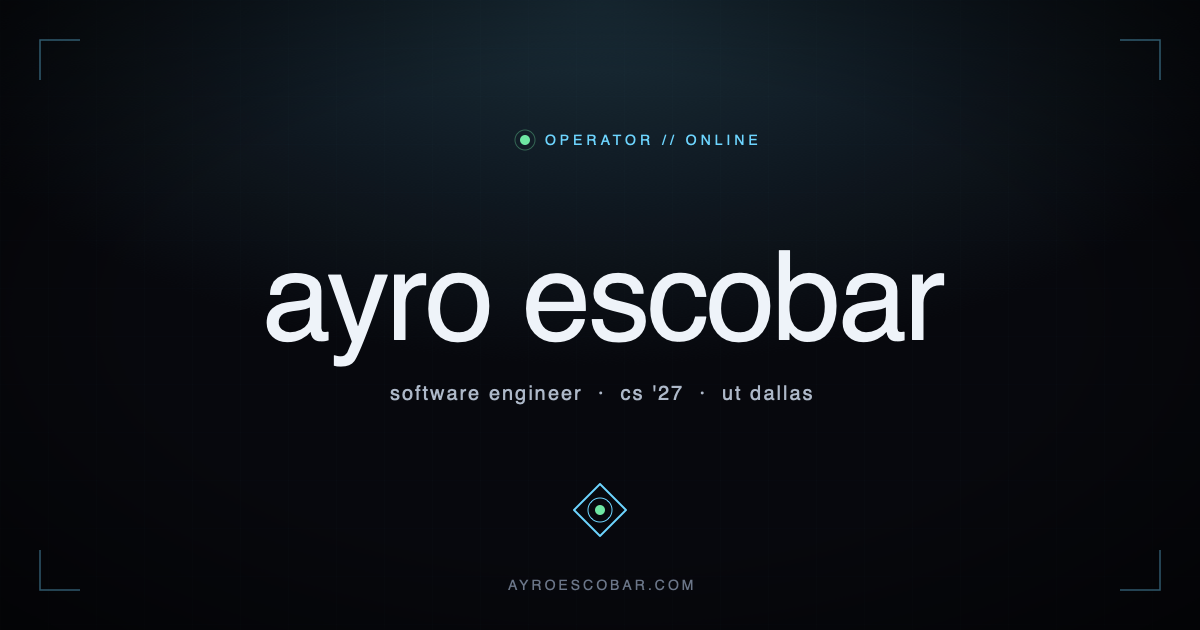
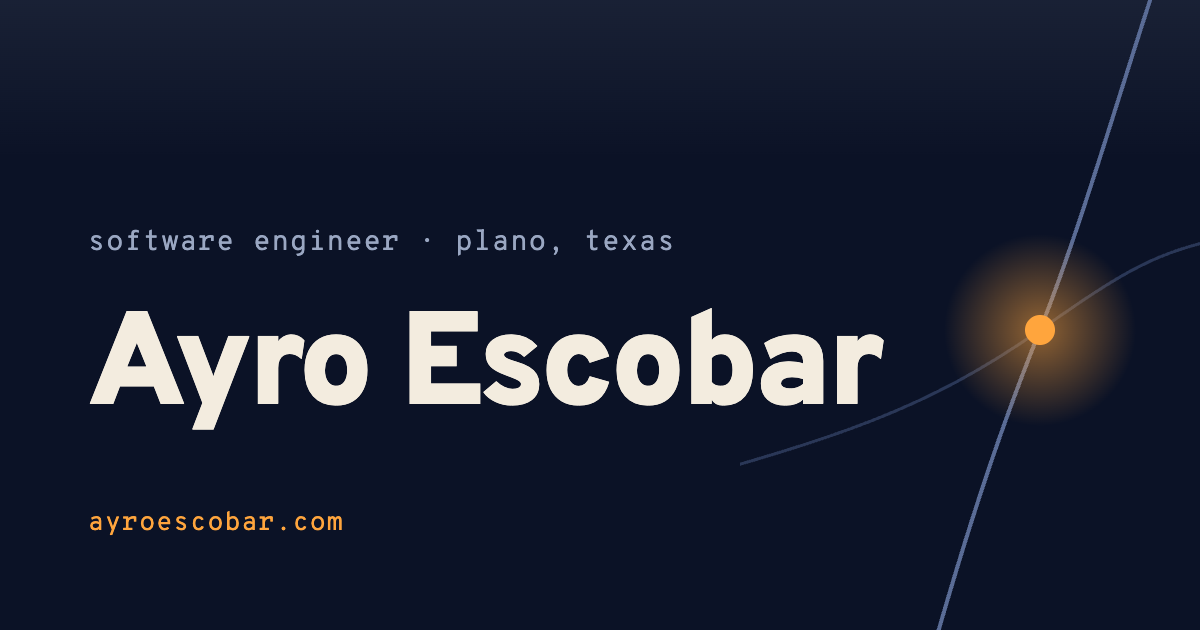
og: provisional night card from tokens, captured headless

diff --git a/frontend/og/og.html b/frontend/og/og.html
@@ -1,0 +1,49 @@
+<!doctype html>
+<!--
+  OG image template (PLAN.md 9). Owned by B. scripts/og.mjs screenshots this
+  page at 1200 by 630 and writes public/og.png. Lives outside public/ so it is
+  never deployed as a page. Uses the real tokens and fonts.
+  PROVISIONAL by FOUNDATION: typographic card with one lit node. B replaces
+  the motif with the lit grid from src/data/dfw-grid.json, then asks
+  FOUNDATION to switch the og:image:alt in src/content/meta.js.
+-->
+<html lang="en">
+  <head>
+    <meta charset="UTF-8" />
+    <title>og</title>
+    <link rel="icon" href="data:," />
+    <link rel="stylesheet" href="/src/styles/tokens.css" />
+    <link rel="stylesheet" href="/src/styles/fonts.css" />
+    <style>
+      html, body { margin: 0; width: 1200px; height: 630px; overflow: hidden; background: var(--night); }
+      body { position: relative; font-family: 'Overpass Variable', 'Overpass Fallback', sans-serif; color: var(--ink); }
+      .horizon { position: absolute; inset: 0 0 auto 0; height: 160px; background: linear-gradient(to bottom, color-mix(in oklab, var(--led) 7%, transparent), transparent); }
+      .copy { position: absolute; left: 88px; top: 0; bottom: 0; display: flex; flex-direction: column; justify-content: center; gap: 22px; }
+      .mono { font-family: 'Overpass Mono Variable', 'Overpass Mono Fallback', monospace; letter-spacing: 0.04em; }
+      .eyebrow { font-size: 28px; color: var(--dim); }
+      h1 { margin: 0; font-size: 132px; line-height: 0.92; font-weight: 900; letter-spacing: -0.03em; }
+      .host { position: absolute; left: 88px; bottom: 64px; font-size: 26px; color: var(--sodium); }
+      svg { position: absolute; right: 0; top: 0; }
+    </style>
+  </head>
+  <body>
+    <div class="horizon"></div>
+    <svg width="460" height="630" viewBox="0 0 460 630" aria-hidden="true">
+      <defs>
+        <radialGradient id="glow" cx="0.5" cy="0.5" r="0.5">
+          <stop offset="0" stop-color="var(--sodium)" stop-opacity="0.55" />
+          <stop offset="1" stop-color="var(--sodium)" stop-opacity="0" />
+        </radialGradient>
+      </defs>
+      <path d="M-20 470 C 120 430, 200 400, 300 330 S 420 250, 520 230" fill="none" stroke="var(--trace)" stroke-width="3" stroke-linecap="round" />
+      <path d="M190 660 C 230 520, 260 430, 300 330 S 380 90, 420 -30" fill="none" stroke="var(--trace-lit)" stroke-width="4" stroke-linecap="round" />
+      <circle cx="300" cy="330" r="96" fill="url(#glow)" />
+      <circle cx="300" cy="330" r="15" fill="var(--sodium)" />
+    </svg>
+    <div class="copy">
+      <p class="mono eyebrow">software engineer · plano, texas</p>
+      <h1>Ayro Escobar</h1>
+    </div>
+    <p class="mono host">ayroescobar.com</p>
+  </body>
+</html>
